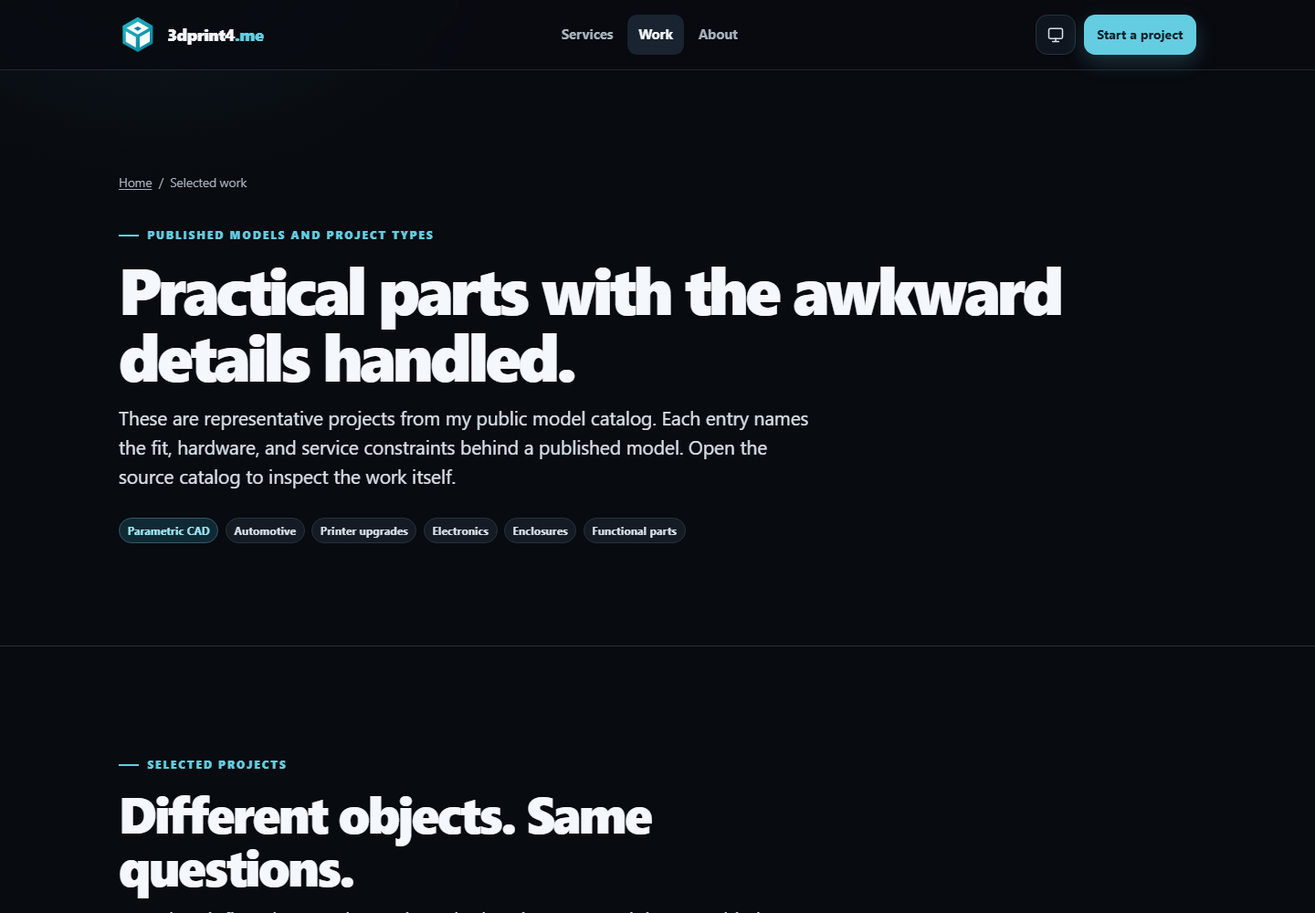
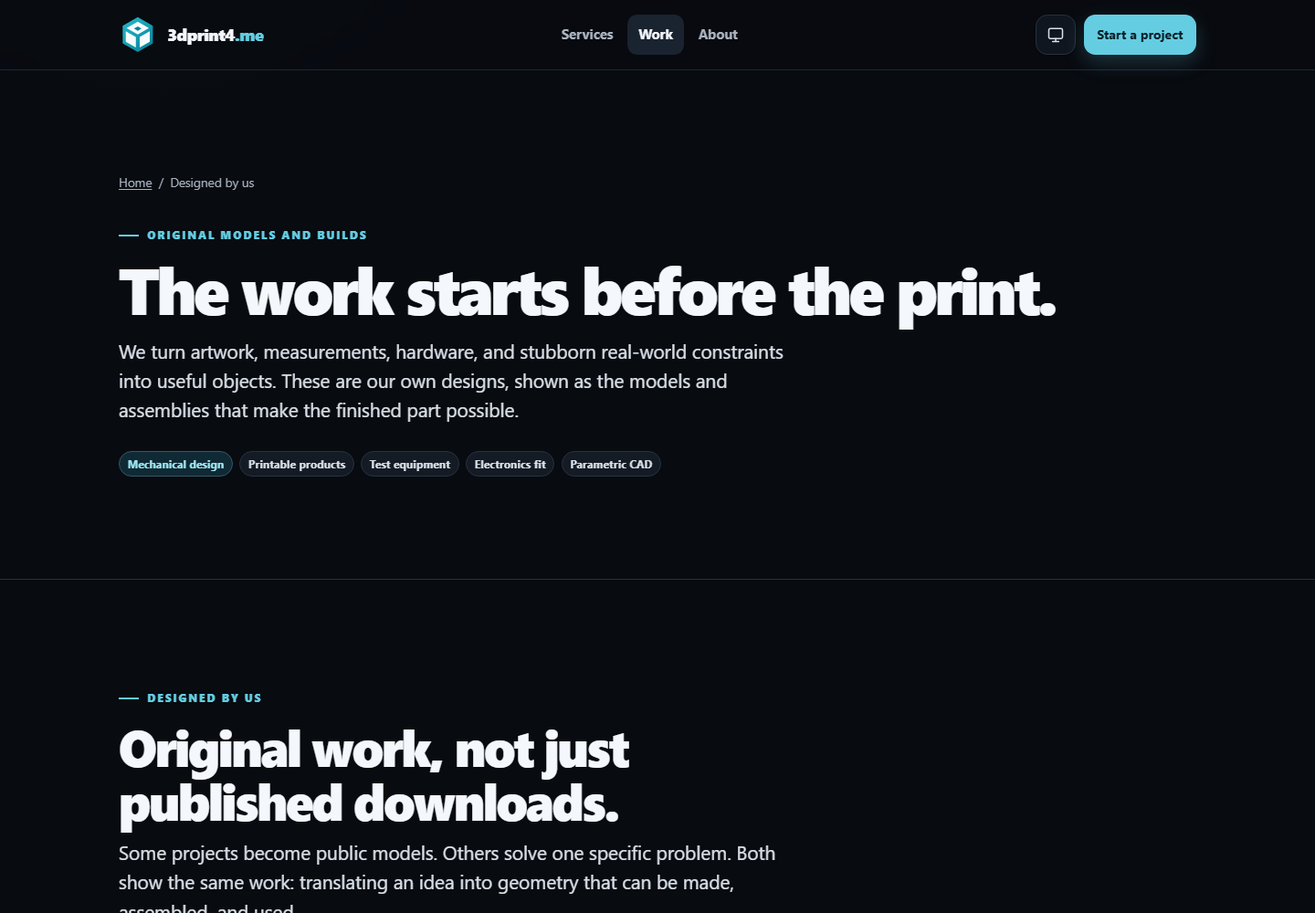
Showcase owner-approved original designs

diff --git a/public/assets/css/site.css b/public/assets/css/site.css
@@ -78,8 +78,10 @@ img,svg{display:block;max-width:100%}button,input,select,textarea{font:inherit}b
 .hero-case .hero-project-image{width:100%;height:auto;margin-top:1.25rem;aspect-ratio:16/9;object-fit:cover;border:1px solid var(--line);border-radius:var(--radius-md);background:#edf0f2}.hero-case:has(.hero-project-image) h2{max-width:22ch;margin:1.35rem 0 .55rem;font-size:clamp(1.6rem,2.8vw,2.3rem)}.hero-case:has(.hero-project-image)>p{max-width:48ch;margin-bottom:.4rem}
 .card-grid{display:grid;grid-template-columns:repeat(2,minmax(0,1fr));gap:1rem}.service-card{position:relative;min-height:310px;padding:clamp(1.4rem,3vw,2rem);overflow:hidden;border:1px solid var(--line);border-radius:var(--radius-lg);background:var(--surface);box-shadow:var(--shadow-xs);transition:transform 180ms ease,border-color 180ms ease,box-shadow 180ms ease}.service-card:hover{transform:translateY(-3px);border-color:var(--line-strong);box-shadow:var(--shadow-md)}.service-card.wide{grid-column:span 2;display:grid;grid-template-columns:1.1fr .9fr;align-items:center;gap:2rem}.card-icon{display:grid;width:52px;height:52px;margin-bottom:2.1rem;place-items:center;border-radius:1rem;color:var(--accent);background:var(--accent-soft)}.card-icon svg{width:27px;height:27px;fill:none;stroke:currentColor;stroke-width:1.7;stroke-linecap:round;stroke-linejoin:round}.service-card h3{font-size:clamp(1.4rem,2.5vw,2rem);letter-spacing:-.035em}.service-card p{max-width:560px;color:var(--muted)}.card-link{position:absolute;right:1.5rem;bottom:1.4rem;display:inline-flex;align-items:center;gap:.4rem;font-weight:760;text-decoration:none}.card-link::after{content:"→";transition:transform 150ms ease}.card-link:hover::after{transform:translateX(3px)}.service-card.wide .card-link{position:static;margin-top:.7rem}.machine-lines{display:grid;gap:.6rem;padding:1.3rem;border:1px solid var(--line);border-radius:1rem;background:var(--surface-2)}.machine-lines span{display:flex;height:12px;overflow:hidden;border-radius:99px;background:var(--surface-3)}.machine-lines span::before{width:var(--w,65%);content:"";border-radius:inherit;background:linear-gradient(90deg,var(--accent),var(--accent-bright))}
 .process-grid{display:grid;grid-template-columns:repeat(4,1fr);gap:1.4rem;counter-reset:steps}.process-step{position:relative;padding-top:1.25rem;border-top:2px solid var(--line);counter-increment:steps}.process-step::before{position:absolute;top:-17px;display:grid;width:32px;height:32px;place-items:center;border:2px solid var(--page);border-radius:50%;content:counter(steps,decimal-leading-zero);color:var(--on-accent);background:var(--accent);font-family:var(--font-mono);font-size:.72rem;font-weight:800}.process-step h3{margin-top:1.3rem;margin-bottom:.4rem;font-size:1.06rem}.process-step p{color:var(--muted);font-size:.92rem}
-.portfolio-grid{display:grid;grid-template-columns:repeat(12,1fr);gap:1rem}.project-card{display:flex;min-height:330px;flex-direction:column;overflow:hidden;border:1px solid var(--line);border-radius:var(--radius-lg);background:var(--surface);box-shadow:var(--shadow-xs);transition:border-color 150ms ease,transform 150ms ease}.project-card:hover{border-color:var(--line-strong);transform:translateY(-2px)}.project-card.large{grid-column:span 7}.project-card.small-card{grid-column:span 5}.project-card.half{grid-column:span 6}.project-number{display:block;padding:1.35rem 1.5rem 0;color:var(--accent-ink);font-family:ui-monospace,SFMono-Regular,Consolas,monospace;font-size:.75rem;font-weight:750;letter-spacing:.08em}.project-overlay{display:flex;min-height:0;flex:1;flex-direction:column;align-items:flex-start;padding:1.2rem 1.5rem 1.5rem;color:var(--ink)}.project-overlay h3{max-width:26ch;margin:1.5rem 0 .55rem;font-size:clamp(1.35rem,2.5vw,1.75rem);line-height:1.15;letter-spacing:-.035em}.project-overlay p{max-width:55ch;margin:0 0 1.5rem;color:var(--ink-2);font-size:.95rem;line-height:1.6}.project-overlay a{display:inline-flex;min-height:44px;align-items:center;margin-top:auto;color:var(--accent-ink);font-weight:750;text-decoration:underline;text-underline-offset:4px}.project-overlay a:focus-visible{outline:3px solid var(--focus);outline-offset:3px;border-radius:.2rem}.tag-row{display:flex;flex-wrap:wrap;gap:.45rem}.tag{display:inline-flex;min-height:28px;align-items:center;padding:.2rem .55rem;border:1px solid var(--line);border-radius:99px;color:var(--ink-2);background:var(--surface-2);font-size:.73rem;font-weight:750;letter-spacing:.02em}.tag.accent{color:var(--accent-ink);border-color:color-mix(in srgb,var(--accent) 24%,var(--line));background:var(--accent-soft)}
+.portfolio-grid{display:grid;grid-template-columns:repeat(12,1fr);gap:1rem}.project-card{display:flex;min-height:330px;flex-direction:column;overflow:hidden;border:1px solid var(--line);border-radius:var(--radius-lg);background:var(--surface);box-shadow:var(--shadow-xs);transition:border-color 150ms ease,transform 150ms ease}.project-card:hover{border-color:var(--line-strong);transform:translateY(-2px)}.project-card.large{grid-column:span 7}.project-card.small-card{grid-column:span 5}.project-card.half{grid-column:span 6}.project-card.full{grid-column:span 12}.project-number{display:block;padding:1.35rem 1.5rem 0;color:var(--accent-ink);font-family:ui-monospace,SFMono-Regular,Consolas,monospace;font-size:.75rem;font-weight:750;letter-spacing:.08em}.project-overlay{display:flex;min-height:0;flex:1;flex-direction:column;align-items:flex-start;padding:1.2rem 1.5rem 1.5rem;color:var(--ink)}.project-overlay h3{max-width:26ch;margin:1.5rem 0 .55rem;font-size:clamp(1.35rem,2.5vw,1.75rem);line-height:1.15;letter-spacing:-.035em}.project-overlay p{max-width:55ch;margin:0 0 1.5rem;color:var(--ink-2);font-size:.95rem;line-height:1.6}.project-overlay a{display:inline-flex;min-height:44px;align-items:center;margin-top:auto;color:var(--accent-ink);font-weight:750;text-decoration:underline;text-underline-offset:4px}.project-overlay a:focus-visible{outline:3px solid var(--focus);outline-offset:3px;border-radius:.2rem}.tag-row{display:flex;flex-wrap:wrap;gap:.45rem}.tag{display:inline-flex;min-height:28px;align-items:center;padding:.2rem .55rem;border:1px solid var(--line);border-radius:99px;color:var(--ink-2);background:var(--surface-2);font-size:.73rem;font-weight:750;letter-spacing:.02em}.tag.accent{color:var(--accent-ink);border-color:color-mix(in srgb,var(--accent) 24%,var(--line));background:var(--accent-soft)}
 .project-card>.project-image{width:100%;height:auto;aspect-ratio:16/9;object-fit:cover;border-bottom:1px solid var(--line);background:#d8dcdf}.project-card:has(>.project-image) .project-number{padding-top:1rem}.project-card:has(>.project-image) .project-overlay{padding-top:.8rem}.project-card:has(>.project-image) .project-overlay h3{margin-top:.8rem}
+.project-card>.designed-render,.hero-case .hero-project-image.designed-render{object-fit:contain;padding:clamp(.65rem,2vw,1.25rem);background-color:#202734;background-image:linear-gradient(rgb(255 255 255/.035) 1px,transparent 1px),linear-gradient(90deg,rgb(255 255 255/.035) 1px,transparent 1px);background-size:32px 32px}.designed-work .project-card{border-color:color-mix(in srgb,var(--accent) 18%,var(--line))}.designed-work .project-number{color:var(--accent)}
+.project-card.full>.designed-render{aspect-ratio:21/8}
 .split{display:grid;grid-template-columns:1fr 1fr;align-items:center;gap:clamp(2rem,7vw,6rem)}.quote-panel{position:relative;padding:clamp(1.7rem,4vw,3rem);border:1px solid var(--line);border-radius:var(--radius-xl);background:var(--surface);box-shadow:var(--shadow-md)}.quote-panel::before{display:block;margin-bottom:1rem;content:"“";color:var(--accent);font-family:Georgia,serif;font-size:5rem;line-height:.6}.quote-panel blockquote{margin:0;color:var(--ink-2);font-size:clamp(1.25rem,2.6vw,1.8rem);font-weight:680;line-height:1.4;letter-spacing:-.03em}.quote-panel footer{margin-top:1.25rem;color:var(--muted);font-size:.9rem}.capability-list{display:grid;gap:.85rem;padding:0;list-style:none}.capability-list li{display:grid;grid-template-columns:30px 1fr;gap:.75rem;align-items:start}.capability-list li::before{display:grid;width:26px;height:26px;place-items:center;border-radius:50%;content:"✓";color:var(--success);background:var(--success-soft);font-weight:900}.capability-list strong{display:block}.capability-list span{display:block;color:var(--muted);font-size:.9rem}
 .cta-panel{position:relative;overflow:hidden;padding:clamp(2rem,7vw,5rem);border-radius:var(--radius-xl);color:#fff;background:#111820;box-shadow:var(--shadow-lg)}.cta-panel::before{position:absolute;inset:-40% -20% auto auto;width:540px;height:540px;border-radius:50%;content:"";background:radial-gradient(circle,color-mix(in srgb,var(--accent-bright) 72%,transparent),transparent 65%);opacity:.7}.cta-panel>*{position:relative}.cta-panel .eyebrow{color:#9ee7f2}.cta-panel h2{max-width:780px}.cta-panel p{max-width:690px;color:#c7d0db}.cta-panel .button.primary{color:#09212a;background:#64cde2}.cta-panel .button.secondary{color:#fff;border-color:#3a4655;background:#1a2330}
 .page-hero{padding-block:clamp(3.5rem,8vw,7rem);border-bottom:1px solid var(--line)}.page-hero .lede{max-width:760px}.breadcrumbs{display:flex;gap:.45rem;margin-bottom:1.8rem;color:var(--muted);font-size:.85rem}.breadcrumbs a{color:var(--muted)}.breadcrumbs span::before{margin-right:.45rem;content:"/"}.stat-row{display:flex;flex-wrap:wrap;gap:1rem;margin-top:2rem}.stat{min-width:160px;padding:1rem 1.1rem;border:1px solid var(--line);border-radius:var(--radius-md);background:var(--surface)}.stat strong{display:block;font-size:1.35rem;letter-spacing:-.035em}.stat span{color:var(--muted);font-size:.8rem}
@@ -96,7 +98,7 @@ img,svg{display:block;max-width:100%}button,input,select,textarea{font:inherit}b
 /* Legal / utility */
 .prose{color:var(--ink-2)}.prose h2{margin-top:2.5rem;color:var(--ink);font-size:1.55rem;letter-spacing:-.035em}.prose h3{margin-top:1.8rem;color:var(--ink);font-size:1.1rem}.prose a{font-weight:650}.prose li{margin-bottom:.45rem}.notice{padding:1rem 1.1rem;border-left:4px solid var(--accent);border-radius:0 var(--radius-sm) var(--radius-sm) 0;background:var(--accent-soft);color:var(--accent-ink)}.not-found{min-height:calc(100vh - var(--header-height));display:grid;place-items:center;padding:4rem 1rem;text-align:center}.not-found-code{font-family:var(--font-mono);font-size:clamp(5rem,18vw,12rem);font-weight:900;line-height:.8;color:var(--surface-3);-webkit-text-stroke:1px var(--line-strong)}
 @media(max-width:980px){.hero-grid{grid-template-columns:1fr}.hero-copy{max-width:800px}.hero-case{width:min(680px,100%);margin-inline:auto}.proof-grid{grid-template-columns:repeat(2,1fr)}.proof-item:nth-child(2){border-right:0}.proof-item:nth-child(-n+2){border-bottom:1px solid var(--line)}.process-grid{grid-template-columns:repeat(2,1fr);row-gap:2.2rem}.project-card.large,.project-card.small-card{grid-column:span 6}.split{grid-template-columns:1fr}.footer-grid{grid-template-columns:1.6fr repeat(2,1fr)}.footer-grid>div:last-child{grid-column:2}.order-shell{grid-template-columns:1fr}.estimate-sidebar{position:static;display:grid;grid-template-columns:1fr 1fr;gap:1rem}.estimate-sidebar .estimate-list{margin:0;padding:0 0 0 1rem;border-top:0;border-left:1px solid var(--line)}.estimate-note{grid-column:1/-1}.story-grid{grid-template-columns:1fr}.work-record{position:static;max-width:620px}}
-@media(max-width:760px){:root{--header-height:68px}.container{width:min(calc(100% - 1.25rem),var(--container))}.nav-links,.nav-actions>.button{display:none}.menu-button{display:inline-grid}.mobile-panel{position:absolute;top:100%;right:.625rem;left:.625rem;display:none;padding:.65rem;border:1px solid var(--line);border-radius:var(--radius-md);background:var(--surface);box-shadow:var(--shadow-md)}.mobile-panel.open{display:grid}.mobile-panel .nav-link{width:100%;padding:.7rem}.mobile-panel .button{margin-top:.4rem}.hero{padding-top:3.3rem}.hero-grid{gap:2.8rem}.proof-grid{grid-template-columns:1fr 1fr}.proof-item{padding:1.05rem .85rem}.card-grid{grid-template-columns:1fr}.service-card,.service-card.wide{grid-column:auto;display:block;min-height:285px}.process-grid{grid-template-columns:1fr}.portfolio-grid{display:grid;grid-template-columns:1fr}.project-card,.project-card.large,.project-card.small-card,.project-card.half{grid-column:auto;min-height:390px}.page-hero{padding-top:3rem}.service-detail{grid-template-columns:1fr;gap:1.2rem}.included-grid{grid-template-columns:1fr}.footer-grid{grid-template-columns:1fr 1fr}.footer-brand{grid-column:1/-1}.footer-grid>div:last-child{grid-column:auto}.order-shell{padding-top:2rem}.choice-grid,.form-grid{grid-template-columns:1fr}.field.full{grid-column:auto}.choice-card label{min-height:148px}.estimate-sidebar{grid-template-columns:1fr}.estimate-sidebar .estimate-list{padding:1rem 0 0;border-left:0;border-top:1px solid var(--line)}.review-row{grid-template-columns:1fr;gap:.2rem}.form-actions{position:sticky;z-index:20;bottom:0;margin-inline:-.625rem;padding:.75rem .625rem;border-top:1px solid var(--line);background:color-mix(in srgb,var(--page) 92%,transparent);-webkit-backdrop-filter:blur(12px);backdrop-filter:blur(12px)}}
+@media(max-width:760px){:root{--header-height:68px}.container{width:min(calc(100% - 1.25rem),var(--container))}.nav-links,.nav-actions>.button{display:none}.menu-button{display:inline-grid}.mobile-panel{position:absolute;top:100%;right:.625rem;left:.625rem;display:none;padding:.65rem;border:1px solid var(--line);border-radius:var(--radius-md);background:var(--surface);box-shadow:var(--shadow-md)}.mobile-panel.open{display:grid}.mobile-panel .nav-link{width:100%;padding:.7rem}.mobile-panel .button{margin-top:.4rem}.hero{padding-top:3.3rem}.hero-grid{gap:2.8rem}.proof-grid{grid-template-columns:1fr 1fr}.proof-item{padding:1.05rem .85rem}.card-grid{grid-template-columns:1fr}.service-card,.service-card.wide{grid-column:auto;display:block;min-height:285px}.process-grid{grid-template-columns:1fr}.portfolio-grid{display:grid;grid-template-columns:1fr}.project-card,.project-card.large,.project-card.small-card,.project-card.half,.project-card.full{grid-column:auto;min-height:390px}.project-card.full>.designed-render{aspect-ratio:16/9}.page-hero{padding-top:3rem}.service-detail{grid-template-columns:1fr;gap:1.2rem}.included-grid{grid-template-columns:1fr}.footer-grid{grid-template-columns:1fr 1fr}.footer-brand{grid-column:1/-1}.footer-grid>div:last-child{grid-column:auto}.order-shell{padding-top:2rem}.choice-grid,.form-grid{grid-template-columns:1fr}.field.full{grid-column:auto}.choice-card label{min-height:148px}.estimate-sidebar{grid-template-columns:1fr}.estimate-sidebar .estimate-list{padding:1rem 0 0;border-left:0;border-top:1px solid var(--line)}.review-row{grid-template-columns:1fr;gap:.2rem}.form-actions{position:sticky;z-index:20;bottom:0;margin-inline:-.625rem;padding:.75rem .625rem;border-top:1px solid var(--line);background:color-mix(in srgb,var(--page) 92%,transparent);-webkit-backdrop-filter:blur(12px);backdrop-filter:blur(12px)}}
 @media(max-width:520px){.display{font-size:clamp(2.55rem,14vw,4rem)}.hero-actions,.action-row,.confirmation-actions{align-items:stretch;flex-direction:column}.hero-actions .button,.action-row .button,.confirmation-actions .button{width:100%}.proof-grid{grid-template-columns:1fr}.proof-item{border-right:0!important;border-bottom:1px solid var(--line)}.proof-item:last-child{border-bottom:0}.footer-grid{grid-template-columns:1fr}.footer-grid>div{grid-column:auto!important}.footer-base{align-items:flex-start;flex-direction:column}.stat{flex:1;min-width:130px}.price-table th,.price-table td{display:block;width:100%}.price-table th{padding-bottom:.25rem;border-bottom:0}.price-table td{padding-top:0}.file-item{grid-template-columns:minmax(0,1fr) auto}.file-item-size{display:none}}
 @media(prefers-reduced-motion:reduce){html{scroll-behavior:auto}*,*::before,*::after{scroll-behavior:auto!important;animation-duration:.01ms!important;animation-iteration-count:1!important;transition-duration:.01ms!important}}
 @media print{.site-header,.site-footer,.hero-actions,.button,.form-actions,.toast-region{display:none!important}body{background:#fff;color:#000}.section,.page-hero{padding-block:1.5rem}.order-shell{display:block}.estimate-sidebar{box-shadow:none}}

diff --git a/public/portfolio.html b/public/portfolio.html
@@ -2,18 +2,26 @@
 <html lang="en">
 <head>
   <meta charset="utf-8"><meta name="viewport" content="width=device-width, initial-scale=1">
-  <meta name="description" content="Selected 3D modeling and fabrication work by Jerrett Davis: automotive organizers, printer electronics enclosures, camera housings, ESP32 cases, and shop hardware.">
+  <meta name="description" content="Original 3D modeling and fabrication work by Jerrett Davis, including custom keychains, mechanical test equipment, fitted holders, electronics mounts, and published models.">
   <meta name="theme-color" content="#080b10" media="(prefers-color-scheme: dark)"><meta name="theme-color" content="#f3f5f7" media="(prefers-color-scheme: light)">
-  <meta property="og:title" content="Selected work — 3dprint4.me"><meta property="og:description" content="Practical CAD and 3D-printed parts built around fit, access, serviceability, and use."><meta property="og:type" content="website"><meta property="og:url" content="https://3dprint4.me/portfolio.html"><meta property="og:image" content="https://3dprint4.me/assets/images/social-card.png"><meta property="og:image:width" content="1200"><meta property="og:image:height" content="630"><meta property="og:image:alt" content="3dprint4.me — Ideas into parts. Problems into fixes."><meta name="twitter:card" content="summary_large_image"><meta name="twitter:image" content="https://3dprint4.me/assets/images/social-card.png">
-  <title>Selected work — 3dprint4.me</title><link rel="canonical" href="https://3dprint4.me/portfolio.html"><link rel="icon" href="/favicon.svg" type="image/svg+xml"><link rel="manifest" href="/manifest.webmanifest"><link rel="stylesheet" href="/assets/css/site.css">
+  <meta property="og:title" content="Designed by us — 3dprint4.me"><meta property="og:description" content="Original CAD, printable products, mechanical assemblies, and fitted hardware built around real constraints."><meta property="og:type" content="website"><meta property="og:url" content="https://3dprint4.me/portfolio.html"><meta property="og:image" content="https://3dprint4.me/assets/images/social-card.png"><meta property="og:image:width" content="1200"><meta property="og:image:height" content="630"><meta property="og:image:alt" content="3dprint4.me — Ideas into parts. Problems into fixes."><meta name="twitter:card" content="summary_large_image"><meta name="twitter:image" content="https://3dprint4.me/assets/images/social-card.png">
+  <title>Designed by us — 3dprint4.me</title><link rel="canonical" href="https://3dprint4.me/portfolio.html"><link rel="icon" href="/favicon.svg" type="image/svg+xml"><link rel="manifest" href="/manifest.webmanifest"><link rel="stylesheet" href="/assets/css/site.css">
 </head>
 <body>
   <div id="site-header"></div>
   <main id="main">
-    <header class="page-hero"><div class="container"><nav class="breadcrumbs" aria-label="Breadcrumb"><a href="/">Home</a><span>Selected work</span></nav><span class="eyebrow">Published models and project types</span><h1 class="h1">Practical parts with the awkward details handled.</h1><p class="lede">These are representative projects from my public model catalog. Each entry names the fit, hardware, and service constraints behind a published model. Open the source catalog to inspect the work itself.</p><div class="tag-row" style="margin-top:1.8rem"><span class="tag accent">Parametric CAD</span><span class="tag">Automotive</span><span class="tag">Printer upgrades</span><span class="tag">Electronics</span><span class="tag">Enclosures</span><span class="tag">Functional parts</span></div></div></header>
+    <header class="page-hero"><div class="container"><nav class="breadcrumbs" aria-label="Breadcrumb"><a href="/">Home</a><span>Designed by us</span></nav><span class="eyebrow">Original models and builds</span><h1 class="h1">The work starts before the print.</h1><p class="lede">We turn artwork, measurements, hardware, and stubborn real-world constraints into useful objects. These are our own designs, shown as the models and assemblies that make the finished part possible.</p><div class="tag-row" style="margin-top:1.8rem"><span class="tag accent">Mechanical design</span><span class="tag">Printable products</span><span class="tag">Test equipment</span><span class="tag">Electronics fit</span><span class="tag">Parametric CAD</span></div></div></header>
 
-    <section class="section" aria-labelledby="portfolio-title"><div class="container"><div class="section-header"><span class="eyebrow">Selected projects</span><h2 class="h2" id="portfolio-title">Different objects. Same questions.</h2><p class="lede">How does it fit? What gets hot? Where do the wires go? Can it be assembled, cleaned, adjusted, and repaired? What orientation makes the part stronger?</p></div>
-      <div class="portfolio-grid">
+    <section class="section" id="designed-work" aria-labelledby="portfolio-title"><div class="container"><div class="section-header"><span class="eyebrow">Designed by us</span><h2 class="h2" id="portfolio-title">Original work, not just published downloads.</h2><p class="lede">Some projects become public models. Others solve one specific problem. Both show the same work: translating an idea into geometry that can be made, assembled, and used.</p></div>
+      <div class="portfolio-grid designed-work">
+        <article class="project-card large"><img class="project-image designed-render" src="/assets/images/projects/designed/keyswitch-tester.png" alt="CAD render of our keyswitch tester assembly with actuator carriage, vertical guides, switch fixture, and base" width="1600" height="1000"><span class="project-number" aria-hidden="true">01 / 03</span><div class="project-overlay"><div class="tag-row"><span class="tag">Mechanical assembly</span><span class="tag">Repeatable testing</span></div><h3>Keyswitch tester</h3><p>A purpose-built mechanism for controlled, repeatable switch pressing. The frame, actuator travel, interchangeable fixture, and service access were developed as one system.</p></div></article>
+        <article class="project-card small-card"><img class="project-image designed-render" src="/assets/images/projects/designed/power-brick-holder.png" alt="CAD render of our magnetic power-brick holder with mounting slots and captured fastener holes" width="1600" height="1000" loading="lazy"><span class="project-number" aria-hidden="true">02 / 03</span><div class="project-overlay"><div class="tag-row"><span class="tag">Measured fit</span><span class="tag">Mounting</span></div><h3>Magnetic power-brick holder</h3><p>A fitted mount that accounts for the brick, retained hardware, wall clearance, and installation access without adding unnecessary bulk.</p></div></article>
+        <article class="project-card full"><img class="project-image designed-render" src="/assets/images/projects/designed/ratgdo-holster.png" alt="CAD render of our fitted ratgdo electronics holster with board rails, cable opening, and mounting features" width="1600" height="1000" loading="lazy"><span class="project-number" aria-hidden="true">03 / 03</span><div class="project-overlay"><div class="tag-row"><span class="tag">Electronics fit</span><span class="tag">Service access</span></div><h3>ratgdo electronics holster</h3><p>A compact carrier shaped around the board and its installation needs, with retention, wiring clearance, and removal considered together.</p></div></article>
+      </div>
+    </div></section>
+
+    <section class="section surface" aria-labelledby="published-title"><div class="container"><div class="section-header"><span class="eyebrow">Also published</span><h2 class="h2" id="published-title">Models you can inspect and download.</h2><p class="lede">These public releases add more examples of parametric fit, electronics integration, airflow, fastening, and print-aware geometry.</p></div>
+      <div class="portfolio-grid published-work">
 <article class="project-card large"><img class="project-image" src="/assets/images/projects/ioniq-console-organizer.png" alt="Printed Ioniq 5 center-console organizer fitted in the car with sunglasses in one compartment" width="1024" height="771" loading="lazy"><span class="project-number" aria-hidden="true">01 / 06</span><div class="project-overlay"><div class="tag-row"><span class="tag">Automotive</span><span class="tag">Parametric</span></div><h3>Fully parametric Ioniq 5 center-console organizer</h3><p>Configurable pockets, wall thickness, chamfers, tolerances, and splits for different use cases and build volumes.</p><a href="https://cults3d.com/en/3d-model/game/fully-parametric-ioniq-5-center-console-organizer" target="_blank" rel="noopener">View the published model</a></div></article>
         <article class="project-card small-card"><img class="project-image" src="/assets/images/projects/ender-skr2-pi-housing.png" alt="Render of the Ender 3 Pro controller housing with Pi 4 mount, vented lids, and accessible ports" width="1024" height="576" loading="lazy"><span class="project-number" aria-hidden="true">02 / 06</span><div class="project-overlay"><div class="tag-row"><span class="tag">Printer upgrade</span><span class="tag">Electronics</span></div><h3>Ender 3 Pro SKR 2 housing with Pi 4 mount</h3><p>Controller, single-board computer, airflow, cable access, fastening, and serviceability in one enclosure.</p><a href="https://cults3d.com/en/3d-model/tool/ender-3-pro-skr-2-housing-with-pi-4-mount" target="_blank" rel="noopener">View the published model</a></div></article>
         <article class="project-card half"><img class="project-image" src="/assets/images/projects/pi-camera-ir-enclosure.png" alt="Render of a fitted Raspberry Pi camera enclosure with two IR module openings and routed wiring" width="1024" height="576" loading="lazy"><span class="project-number" aria-hidden="true">03 / 06</span><div class="project-overlay"><div class="tag-row"><span class="tag">Camera</span><span class="tag">Toolless design</span></div><h3>Raspberry Pi camera and IR enclosures</h3><p>Lens alignment, module clearance, ribbon routing, cooling, access, and secure mounting without a bulky shell.</p><a href="https://cults3d.com/en/3d-model/tool/enclosure-for-raspberry-pi-camera-with-ir-modules" target="_blank" rel="noopener">View the published model</a></div></article>
@@ -23,7 +31,7 @@
       </div>
     </div></section>
 
-    <section class="section surface" aria-labelledby="patterns-title"><div class="container split"><div><span class="eyebrow">What this work demonstrates</span><h2 class="h2" id="patterns-title">The model is only one part of the solution.</h2><p class="lede">A useful design accounts for the physical object, the printer that will make it, and the person who has to live with it afterward.</p></div><ul class="capability-list"><li><div><strong>Measured fit</strong><span>Clearance, shrink behavior, insertion, mating geometry, and adjustable parameters.</span></div></li><li><div><strong>Manufacturable geometry</strong><span>Orientation, support strategy, bridges, overhangs, layer direction, and build-volume limits.</span></div></li><li><div><strong>Hardware integration</strong><span>Fasteners, inserts, ports, fans, cables, PCBs, power supplies, displays, and sensors.</span></div></li><li><div><strong>Service after assembly</strong><span>Access, removal, replacement, cleaning, adjustment, and readable assembly intent.</span></div></li></ul></div></section>
+    <section class="section" aria-labelledby="patterns-title"><div class="container split"><div><span class="eyebrow">What this work demonstrates</span><h2 class="h2" id="patterns-title">The model is only one part of the solution.</h2><p class="lede">A useful design accounts for the physical object, the printer that will make it, and the person who has to live with it afterward.</p></div><ul class="capability-list"><li><div><strong>Measured fit</strong><span>Clearance, shrink behavior, insertion, mating geometry, and adjustable parameters.</span></div></li><li><div><strong>Manufacturable geometry</strong><span>Orientation, support strategy, bridges, overhangs, layer direction, and build-volume limits.</span></div></li><li><div><strong>Hardware integration</strong><span>Fasteners, inserts, ports, fans, cables, PCBs, power supplies, displays, and sensors.</span></div></li><li><div><strong>Service after assembly</strong><span>Access, removal, replacement, cleaning, adjustment, and readable assembly intent.</span></div></li></ul></div></section>
 
     <section class="section compact"><div class="container"><div class="cta-panel"><span class="eyebrow">Your project does not need to resemble these</span><h2 class="h2">Show me the object, constraint, or annoyance.</h2><p class="lede">A ruler photo, a public model link, a dead printer, a napkin sketch, or a clear explanation is enough to begin.</p><div class="action-row"><a class="button primary" href="/order.html">Start my project</a><a class="button secondary" href="https://www.printables.com/@Jdsfighter" target="_blank" rel="noopener">Full Printables profile</a><a class="button secondary" href="https://cults3d.com/en/users/JerrettDavis/3d-models" target="_blank" rel="noopener">Full Cults3D profile</a></div></div></div></section>
   </main>

diff --git a/public/index.html b/public/index.html
@@ -35,12 +35,12 @@
             <span>Rough price before review</span><span>Private file intake</span><span>Most work under 5 business days</span>
           </div>
         </div>
-        <aside class="hero-case" aria-label="Example published project">
-          <div class="hero-case-top"><span class="eyebrow">Published work</span><span class="hero-case-ref">PRINTER ELECTRONICS</span></div>
-          <img class="project-image hero-project-image" src="/assets/images/projects/ender-skr2-pi-housing.png" alt="Render of the Ender 3 Pro controller housing with Pi 4 mount, vented lids, and accessible ports" width="1024" height="576" fetchpriority="high">
-          <h2>One enclosure. Several real constraints.</h2>
-          <p>This Ender 3 Pro housing brings a controller and Raspberry Pi together while keeping cooling, cables, ports, and service access in view.</p>
-          <a href="https://cults3d.com/en/3d-model/tool/ender-3-pro-skr-2-housing-with-pi-4-mount" target="_blank" rel="noopener">Inspect the published model ↗</a>
+        <aside class="hero-case" aria-label="Example original project">
+          <div class="hero-case-top"><span class="eyebrow">Designed by us</span><span class="hero-case-ref">MECHANICAL TEST RIG</span></div>
+          <img class="project-image hero-project-image designed-render" src="/assets/images/projects/designed/keyswitch-tester.png" alt="CAD render of our tall keyswitch tester assembly with actuator carriage, guides, switch fixture, and base" width="1600" height="1000" fetchpriority="high">
+          <h2>A purpose-built keyswitch tester.</h2>
+          <p>The assembly turns repeatable switch pressing into a controlled mechanism, with the actuator, linear travel, fixture, and service access modeled together.</p>
+          <a href="/portfolio.html#designed-work">See how we design</a>
         </aside>
 </div>
     </section>
@@ -118,15 +118,15 @@
     <section class="section" aria-labelledby="work-title">
       <div class="container">
         <div class="section-header">
-          <span class="eyebrow">Selected work</span>
-          <h2 class="h2" id="work-title">Built around the thing it has to do.</h2>
-          <p class="lede">The published catalog leans practical: organizers that fit, enclosures that route cables, mounts that survive use, and printer upgrades that are serviceable later.</p>
+          <span class="eyebrow">Designed by us</span>
+          <h2 class="h2" id="work-title">Original builds, shown from the model outward.</h2>
+          <p class="lede">These projects began with a real need: turn artwork into printable objects, test hardware repeatedly, or fit electronics and everyday equipment cleanly.</p>
         </div>
-        <div class="portfolio-grid">
-          <article class="project-card large"><img class="project-image" src="/assets/images/projects/pi-camera-ir-enclosure.png" alt="Render of a fitted Raspberry Pi camera enclosure with two IR module openings and routed wiring" width="1024" height="576" loading="lazy"><span class="project-number" aria-hidden="true">01 / 02</span><div class="project-overlay"><span class="tag">Electronics enclosure</span><h3>Raspberry Pi camera and IR housing</h3><p>Lens alignment, module clearance, wiring, cooling, and a mount that stays accessible.</p><a href="https://cults3d.com/en/3d-model/tool/enclosure-for-raspberry-pi-camera-with-ir-modules" target="_blank" rel="noopener">View the published enclosure</a></div></article>
-          <article class="project-card small-card"><img class="project-image" src="/assets/images/projects/emergency-stop-render.png" alt="Blue CAD render of an L-shaped emergency-stop button mount with two fastening holes" width="800" height="600" loading="lazy"><span class="project-number" aria-hidden="true">02 / 02</span><div class="project-overlay"><span class="tag">Shop hardware</span><h3>Emergency-stop button mount</h3><p>A small part defined by switch clearance, reach, and a secure mounting surface.</p><a href="https://cults3d.com/en/3d-model/gadget/emergency-stop-button-mount" target="_blank" rel="noopener">View the published mount</a></div></article>
+        <div class="portfolio-grid designed-work">
+          <article class="project-card large"><img class="project-image designed-render" src="/assets/images/projects/designed/ratgdo-holster.png" alt="CAD render of our fitted ratgdo electronics holster with board rails, cable opening, and mounting features" width="1600" height="1000" loading="lazy"><span class="project-number" aria-hidden="true">01 / 02</span><div class="project-overlay"><div class="tag-row"><span class="tag">Electronics fit</span><span class="tag">Service access</span></div><h3>ratgdo electronics holster</h3><p>A compact carrier shaped around the board and its installation needs, with retention, wiring clearance, and removal considered together.</p></div></article>
+          <article class="project-card small-card"><img class="project-image designed-render" src="/assets/images/projects/designed/power-brick-holder.png" alt="CAD render of our magnetic power-brick holder with mounting slots and captured fastener holes" width="1600" height="1000" loading="lazy"><span class="project-number" aria-hidden="true">02 / 02</span><div class="project-overlay"><div class="tag-row"><span class="tag">Measured fit</span><span class="tag">Mounting</span></div><h3>Magnetic power-brick holder</h3><p>A compact fitted part that manages the power brick, mounting hardware, and installation clearance as one object.</p></div></article>
         </div>
-        <div class="action-row" style="margin-top:1.2rem"><a class="button secondary" href="/portfolio.html">See more project types</a><a class="button ghost" href="/order.html">Start with your own problem →</a></div>
+        <div class="action-row" style="margin-top:1.2rem"><a class="button secondary" href="/portfolio.html#designed-work">Explore our original builds</a><a class="button ghost" href="/order.html">Start with your own problem →</a></div>
       </div>
     </section>
 

diff --git a/tests/e2e/test_public_site.py b/tests/e2e/test_public_site.py
@@ -69,7 +69,7 @@ def test_reduced_motion_preference_disables_motion() -> None:
         site.assert_no_page_errors()
 
 
-def test_published_work_is_readable_without_decorative_images() -> None:
+def test_designed_and_published_work_is_readable_without_decorative_images() -> None:
     with SiteBrowser(viewport=(390, 844), color_scheme="dark") as site:
         page = site.load("/about.html")
         assert page.locator(".work-record-list li").count() == 3
@@ -77,23 +77,33 @@ def test_published_work_is_readable_without_decorative_images() -> None:
         assert page.evaluate("document.documentElement.scrollWidth <= document.documentElement.clientWidth")
 
         page = site.load("/portfolio.html")
-        assert page.locator(".project-card").count() == 6
-        assert page.locator(".project-card a").evaluate_all("els => els.every(a => a.getBoundingClientRect().height >= 44)")
+        assert page.locator(".designed-work .project-card").count() == 3
+        assert page.locator(".published-work .project-card").count() == 6
+        assert page.locator(".published-work .project-card a").evaluate_all("els => els.every(a => a.getBoundingClientRect().height >= 44)")
         assert page.evaluate("document.documentElement.scrollWidth <= document.documentElement.clientWidth")
         site.assert_no_page_errors()
 
 
-def test_published_projects_show_their_own_work_images() -> None:
+def test_approved_original_projects_lead_the_portfolio() -> None:
     with SiteBrowser(viewport=(1440, 1000), color_scheme="light") as site:
         home = site.load("/")
         featured = home.locator(".hero-case img.project-image")
         assert featured.count() == 1
-        assert "Ender 3 Pro" in featured.get_attribute("alt")
+        assert "keyswitch tester" in featured.get_attribute("alt").lower()
         assert featured.evaluate("img => img.complete && img.naturalWidth > 0")
 
         work = site.load("/portfolio.html")
+        designed_images = work.locator(".designed-work .project-card img.project-image")
+        assert designed_images.count() == 3
+        assert set(work.locator(".designed-work .project-card h3").all_text_contents()) == {
+            "Keyswitch tester",
+            "Magnetic power-brick holder",
+            "ratgdo electronics holster",
+        }
+        assert work.locator(".designed-work .project-card a").count() == 0
+
         images = work.locator(".project-card img.project-image")
-        assert images.count() == 6
+        assert images.count() == 9
         for image in images.all():
             image.scroll_into_view_if_needed()
             image.evaluate("img => img.decode()")

diff --git a/scripts/capture_screenshots.py b/scripts/capture_screenshots.py
@@ -65,7 +65,7 @@ def show_work_record(page) -> None:
 
 
 def show_project_cards(page) -> None:
-    page.locator(".portfolio-grid").scroll_into_view_if_needed()
+    page.locator(".portfolio-grid.designed-work").scroll_into_view_if_needed()
 
 
 def build_preview_board(items: list[tuple[str, Path]]) -> Path:
@@ -112,6 +112,7 @@ def main() -> int:
         ("Services · desktop · light", capture("/services.html", "services-desktop-light.png", viewport=(1440, 1000), scheme="light")),
         ("Portfolio · desktop · dark", capture("/portfolio.html", "portfolio-desktop-dark.png", viewport=(1440, 1000), scheme="dark")),
         ("Portfolio cards · desktop · light", capture("/portfolio.html", "portfolio-cards-desktop-light.png", viewport=(1440, 1000), scheme="light", prepare=show_project_cards)),
+        ("Portfolio cards · mobile · dark", capture("/portfolio.html", "portfolio-cards-mobile-dark.png", viewport=(390, 844), scheme="dark", prepare=show_project_cards)),
         ("About · desktop · light", capture("/about.html", "about-desktop-light.png", viewport=(1440, 1000), scheme="light")),
         ("About work record · desktop · dark", capture("/about.html", "about-work-desktop-dark.png", viewport=(1440, 1000), scheme="dark", prepare=show_work_record)),
         ("About work record · mobile · dark", capture("/about.html", "about-mobile-dark.png", viewport=(390, 844), scheme="dark", prepare=show_work_record)),

diff --git a/docs/PORTFOLIO-SOURCES.md b/docs/PORTFOLIO-SOURCES.md
@@ -8,6 +8,20 @@
 
 The site links to those public sources and uses selected model-listing images uploaded under Jerrett Davis's Cults3D profile, with the owner's approval for storefront use. The images are hosted locally rather than hotlinked; they are project images, not marketplace screenshots or community makes. Other artwork in `public/assets/images/portfolio/` is an original SVG interpretation created for this repository.
 
+## Owner-approved original work
+
+On 2026-09-14, Jerrett reviewed the Fusion project candidates individually and approved these three original projects for public display:
+
+| Local image | Fusion document | What the render shows |
+|---|---|---|
+| `projects/designed/keyswitch-tester.png` | `Keyswitch Tester` | Mechanical test assembly, actuator travel, switch fixture, guides, and base |
+| `projects/designed/power-brick-holder.png` | `Magnetic Power Brick Holder` | Fitted holder, mounting slots, and retained hardware |
+| `projects/designed/ratgdo-holster.png` | `Ratgdo Holster_Holder` | Electronics carrier, retention geometry, cable clearance, and mounting features |
+
+The images were captured from the owner's Fusion documents through the local Fusion MCP connection. Construction geometry was hidden for presentation, solid bodies were shown with their saved appearances, and the source documents were closed without saving those view-only changes.
+
+Unapproved and third-party candidates remain outside the repository and public site. A logo-conversion project was removed because permission to publish the source artwork has not been obtained.
+
 | Local image | Listing source | Original listing image |
 |---|---|---|
 | `projects/ioniq-console-organizer.png` | [Ioniq 5 center-console organizer](https://cults3d.com/en/3d-model/game/fully-parametric-ioniq-5-center-console-organizer) | Cults3D listing photo of the printed tray in the car |

diff --git a/docs/DESIGN-AND-PRODUCT-PLAN.md b/docs/DESIGN-AND-PRODUCT-PLAN.md
@@ -120,7 +120,13 @@ No estimate is represented as a binding price. The confirmed scope should state 
 
 ## Portfolio strategy
 
-The selected public work emphasizes the strongest proof of capability:
+Original, owner-approved work leads the portfolio. The initial "Designed by us" set demonstrates:
+
+- A purpose-built mechanical keyswitch tester
+- Measured mounting geometry in a magnetic power-brick holder
+- Electronics fit and service access in a ratgdo holster
+
+Public model listings remain as a secondary, inspectable catalog. They emphasize:
 
 - Parametric automotive organization
 - Printer electronics integration
